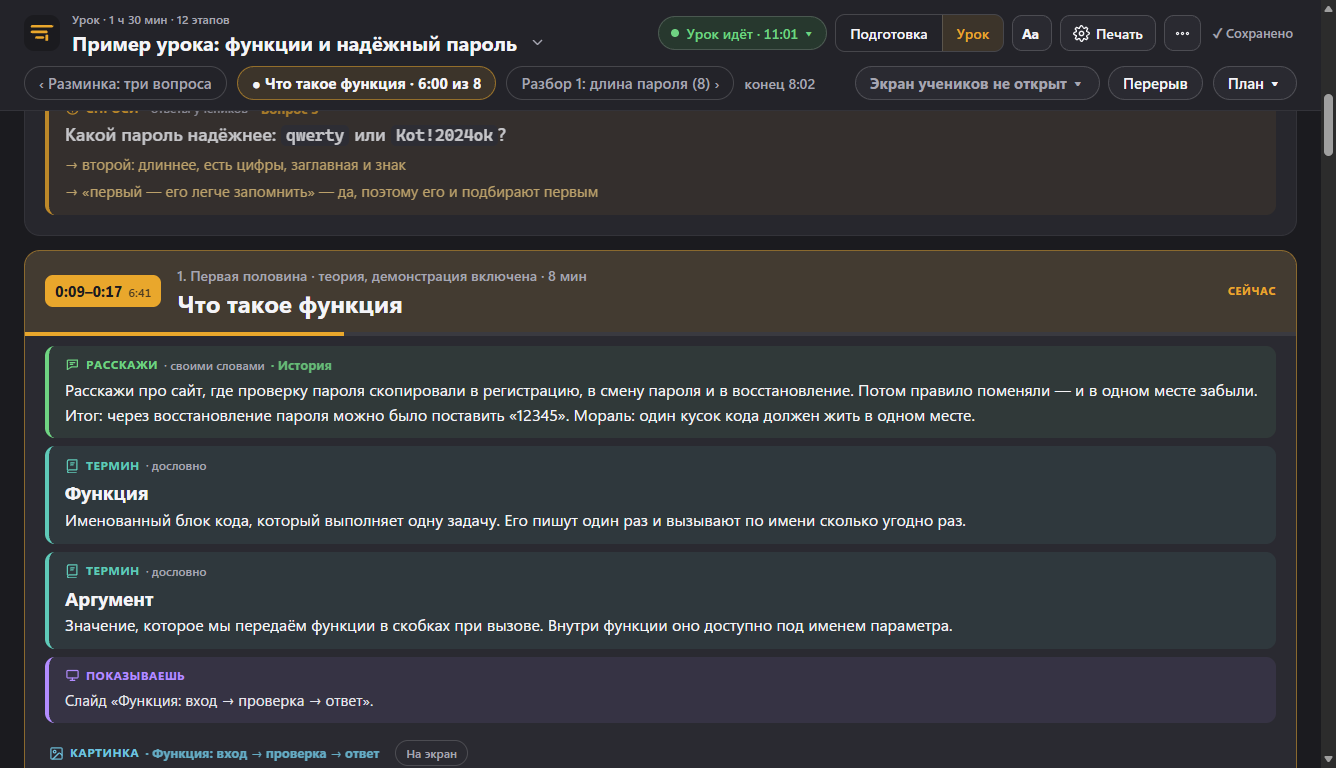
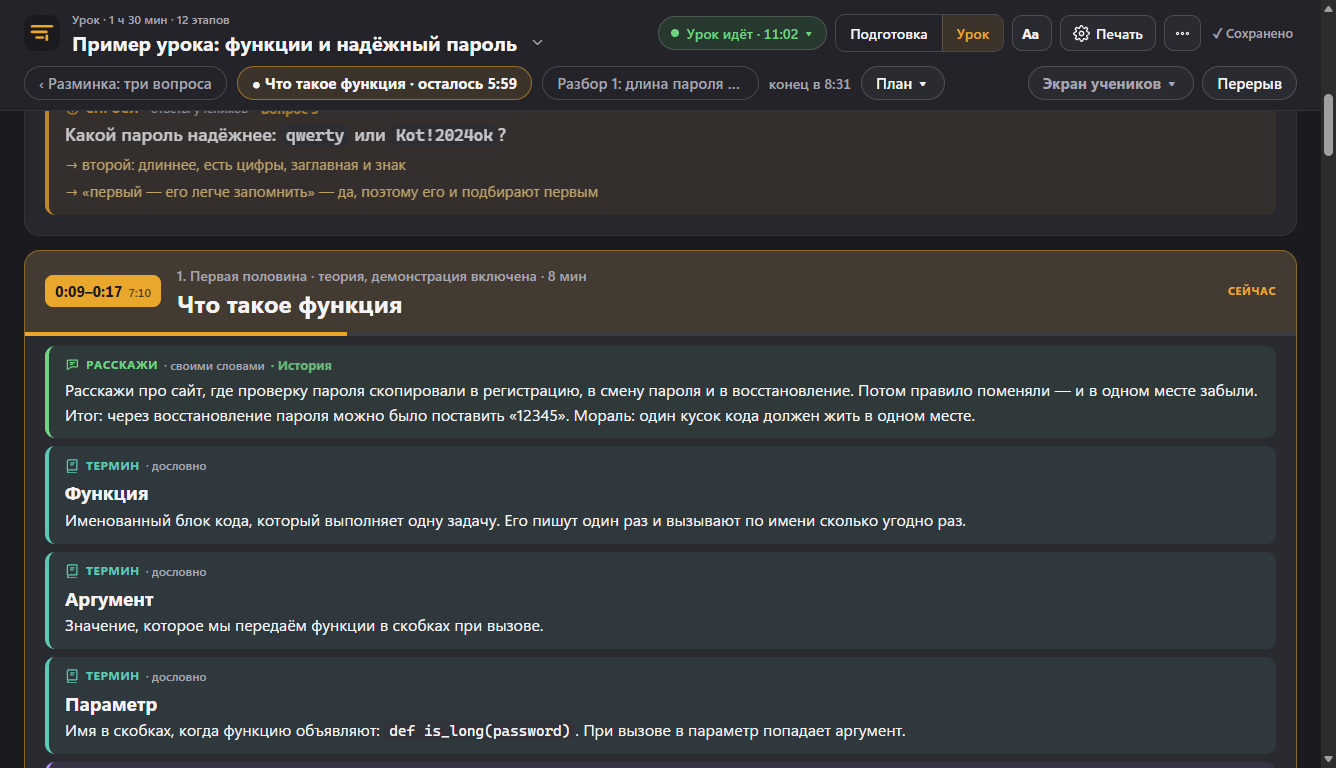
0.11: вторая строка «Урока» не переносится — «План ▾» сразу за временем конца, «Экран учеников ▾» короче (подробности — в подсказке), длинные названия соседних этапов — с многоточием; снимки README

diff --git a/autoprint/efir/page/lesson/app.js b/autoprint/efir/page/lesson/app.js
@@ -390,7 +390,7 @@ function screenText() {
   }
   if (ef.mode === "exercise") return ["У учеников: зарядка", "warn"];
   if (ef.mode === "slide") return ["У учеников: слайд " + (ef.slide_n || "") + " ▾", "ok"];
-  if (!ef.tab_open) return ["Экран учеников не открыт ▾", "dim"];
+  if (!ef.tab_open) return ["Экран учеников ▾", "dim"];
   return ["У учеников: фон ▾", ""];
 }
 
@@ -399,6 +399,8 @@ function screenChip() {
   if (!c) return;
   const [text, cls] = screenText();
   if (c.textContent !== text) c.textContent = text;
+  c.title = cls === "dim" ? "Вкладка экрана учеников не открыта — щёлкните: открыть, фон, перерыв, зарядка"
+    : "Экран учеников: что у них сейчас и что показать";
   c.className = "chip scrchip" + (cls ? " " + cls : "");
 }
 
@@ -651,7 +653,7 @@ function goStage(id) {
 function stripEl() {
   const s = $("strip");
   if (!s.firstChild) {
-    for (const [cls, tag] of [["prev", "button"], ["cur", "button"], ["next", "button"], ["end", "span"], ["screen", "span"], ["more", "button"]]) {
+    for (const [cls, tag] of [["prev", "button"], ["cur", "button"], ["next", "button"], ["end", "span"], ["more", "button"], ["screen", "span"]]) {
       s.appendChild(el(tag, cls));
     }
     const more = s.querySelector(".more");

diff --git a/autoprint/efir/page/lesson.html b/autoprint/efir/page/lesson.html
@@ -415,7 +415,8 @@ body.mode-lesson #status.ok { cursor: pointer; }
 .tmin { font: 600 15px var(--ui); color: var(--text); background: var(--card); border: 1px solid var(--stroke2); border-radius: 8px;
   padding: 4px 8px; }
 #strip button { min-height: 34px; padding: 0 14px; border-radius: 999px; font-size: 15px; }
-#strip .prev, #strip .next { background: transparent; color: var(--dim); }
+#strip .prev, #strip .next { background: transparent; color: var(--dim); max-width: 26ch; overflow: hidden;
+  text-overflow: ellipsis; white-space: nowrap; }
 #strip .cur { background: var(--accent-soft); border-color: var(--accent-line); font-weight: 800; color: var(--text);
   font-variant-numeric: tabular-nums; }
 #strip .end { color: var(--dim); font-size: 14px; font-weight: 600; font-variant-numeric: tabular-nums; }

diff --git a/tests/test_page.py b/tests/test_page.py
@@ -647,7 +647,7 @@ class PageV11Test(Page):
         chip = "document.querySelector('#strip .scrchip')"
         btn = "[...document.querySelectorAll('header button')].find(b => b.textContent.trim() === '{}')"
         try:
-            self.assertTrue(self.edge.wait(f"!!{chip} && {chip}.textContent.includes('Экран учеников не открыт')"))
+            self.assertTrue(self.edge.wait(f"!!{chip} && {chip}.textContent.includes('Экран учеников')"))
             self.assertFalse(self.js(f"!!{btn.format('Перерыв')}"))     # в уроке нет этапа-перерыва — кнопки нет
             self.js(f"{chip}.click()")
             self.assertTrue(self.edge.wait("!!document.querySelector('.menu')"))
